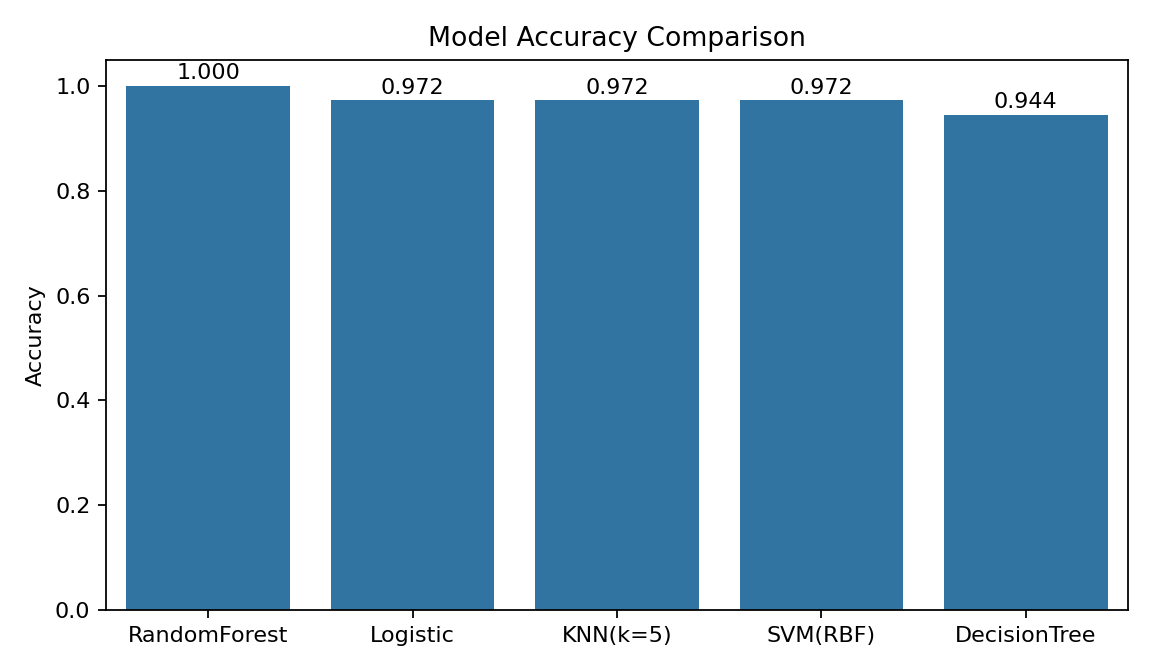
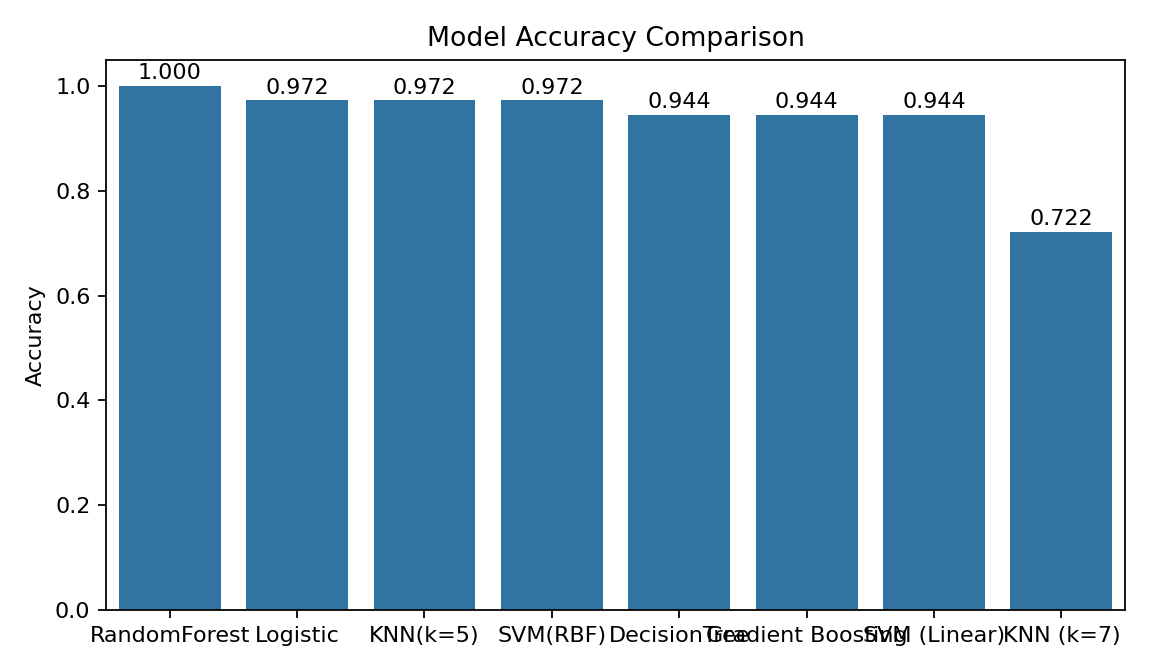
新增

diff --git a/learning/lesson3_model_comparison_graph.py b/learning/lesson3_model_comparison_graph.py
@@ -24,6 +24,8 @@ from sklearn.neighbors import KNeighborsClassifier
 from sklearn.tree import DecisionTreeClassifier
 from sklearn.ensemble import RandomForestClassifier
 from sklearn.svm import SVC
+from sklearn.ensemble import GradientBoostingClassifier
+from xgboost import XGBClassifier
 
 # --------- 1) 資料與前處理 ---------
 data = load_wine()
@@ -41,9 +43,26 @@ X_test_s  = scaler.transform(X_test)
 models = OrderedDict({
     "Logistic": LogisticRegression(max_iter=500),
     "KNN(k=5)": KNeighborsClassifier(n_neighbors=5),
+    "KNN (k=7)": KNeighborsClassifier(n_neighbors=7),
     "DecisionTree": DecisionTreeClassifier(random_state=42),
     "RandomForest": RandomForestClassifier(random_state=42),
-    "SVM(RBF)": SVC(kernel="rbf", probability=False)
+    # ✅ 新增 Gradient Boosting（提升樹模型）
+    "Gradient Boosting": GradientBoostingClassifier(random_state=42),
+    # ✅ 新增 XGBoost（常用穩健參數）
+    "XGBoost": XGBClassifier(
+    n_estimators=300,
+    max_depth=4,
+    learning_rate=0.1,
+    subsample=0.9,
+    colsample_bytree=0.9,
+    random_state=42,
+    n_jobs=-1,
+    eval_metric="mlogloss"
+    ),
+    "SVM(RBF)": SVC(kernel="rbf", probability=False),
+    # ✅ 新增 Linear SVM（線性核）
+    "SVM (Linear)": SVC(kernel='linear'),
+    #"Naive Bayes": GaussianNB()
 })
 
 def fit_predict(name, model):
